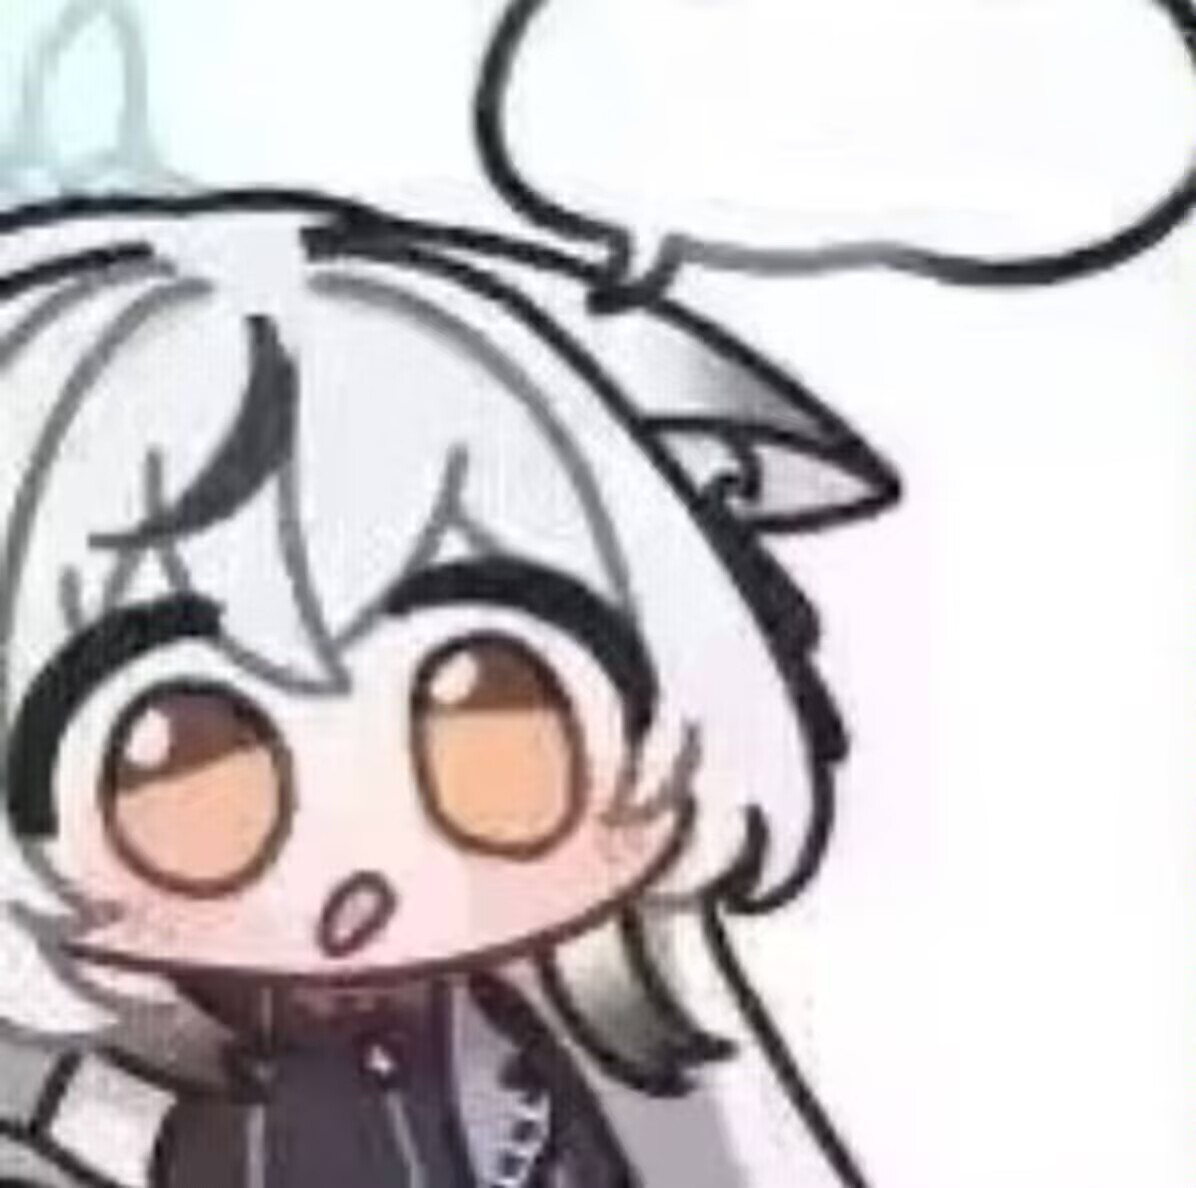
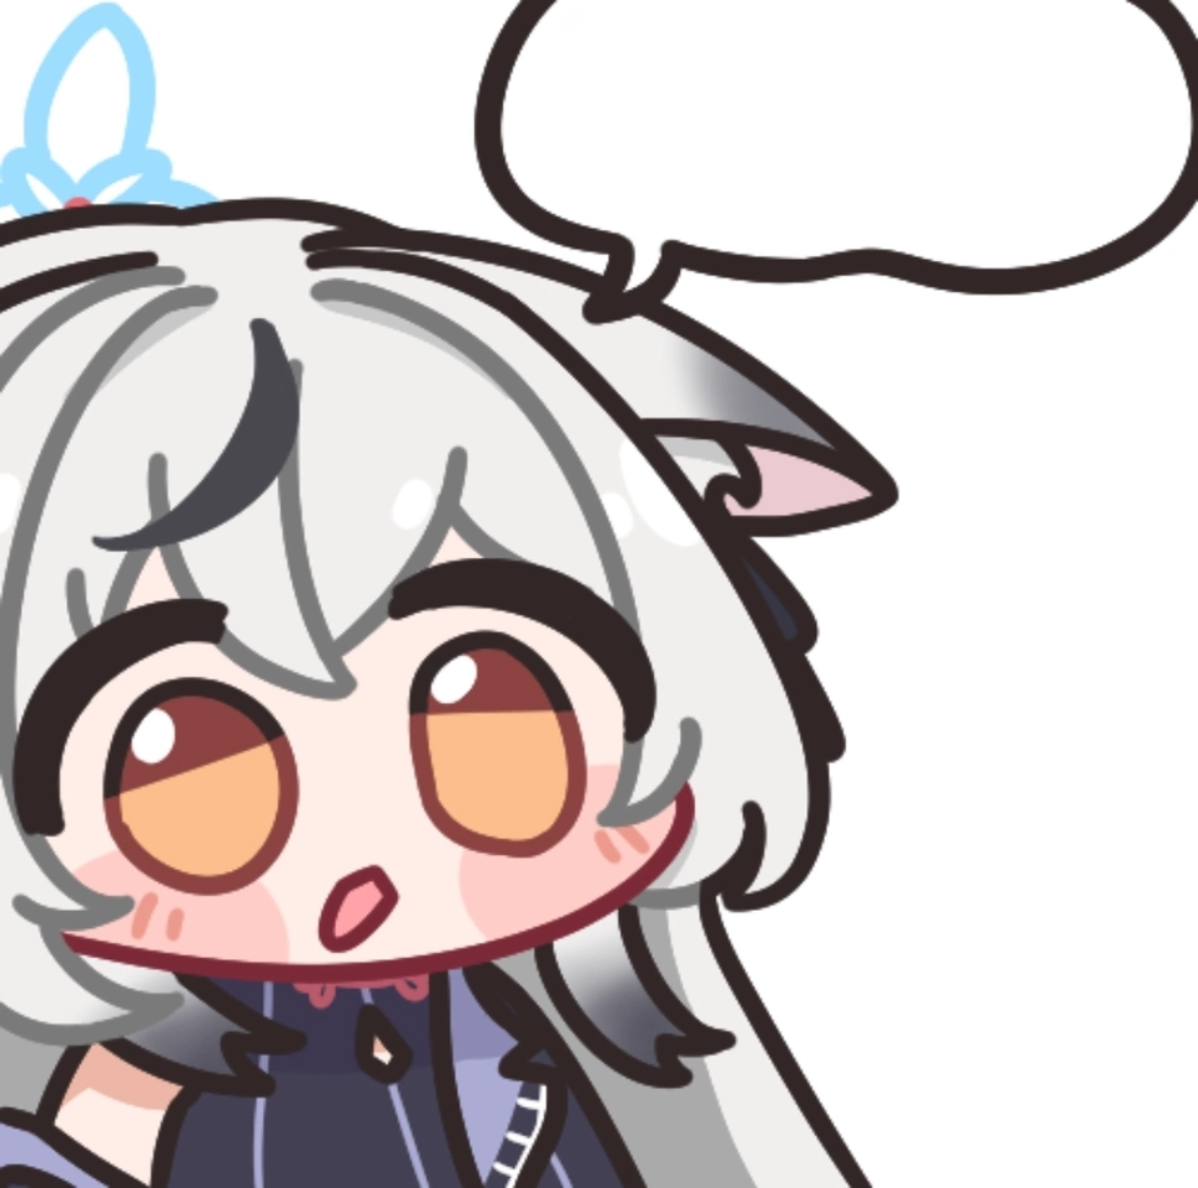
`kokona_say` 更高清的底图 (#220)
* Delete 01.png

* Delete 02.png

* Update resource_list.json

* Create image_dir

* Add files via upload

* Update resource_list.json

* Delete _

* Update __init__.py

* Update __init__.py

allow_warp

---------

Changed region(s): [[0.0, 0.0, 1.0, 1.0]]

diff --git a/meme_generator/memes/kokona_say/__init__.py b/meme_generator/memes/kokona_say/__init__.py
@@ -67,21 +67,23 @@ def kokona_say(images, texts: list[str], args: Model):
     try:
         if left:
             frame.draw_text(
-                (0, 0, 680, 220),
+                (50, 0, 650, 220),
                 text,
                 max_fontsize=100,
                 min_fontsize=50,
                 fill="black",
                 lines_align="center",
+                allow_warp=True,
             )
         else:
             frame.draw_text(
-                (frame.width - 680, 0, frame.width, 220),
+                (frame.width - 650, 0, frame.width - 50, 220),
                 text,
                 max_fontsize=100,
                 min_fontsize=50,
                 fill="black",
                 lines_align="center",
+                allow_warp=True,
             )
     except TextOverLength:
         raise TextOverLength(text)
